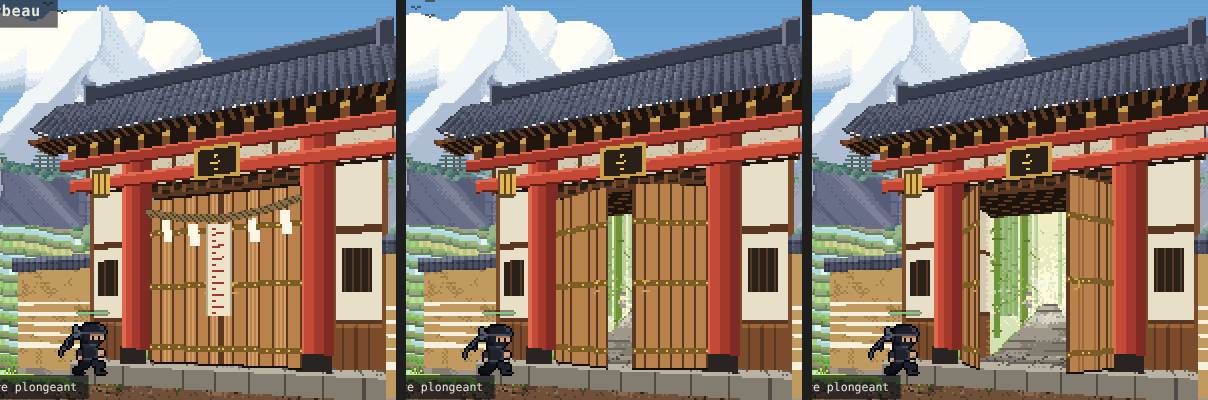
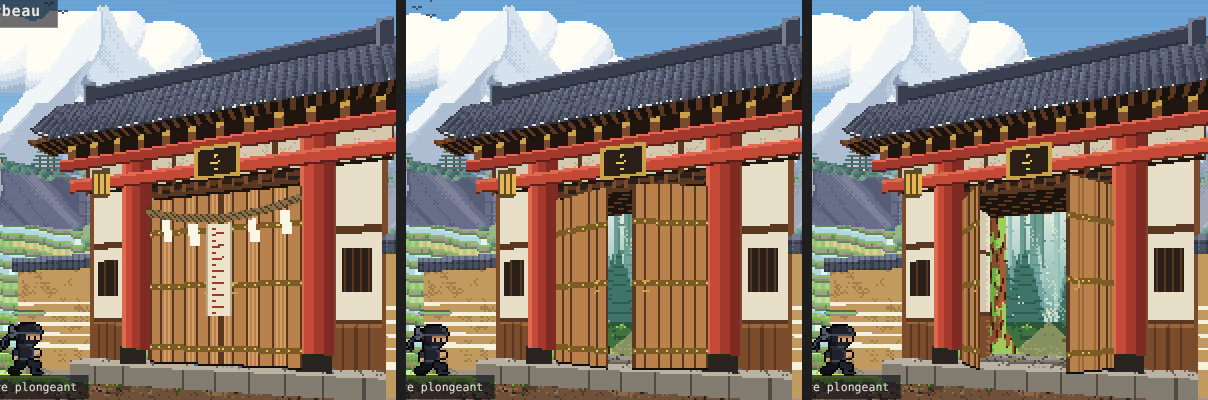
Porte du temple : on aperçoit la forêt dense et mystérieuse du chapitre 2
Nouvel intérieur « foret » (devenu celui par défaut), d'après l'image de
référence de l'utilisateur : brume bleu-vert, troncs droits à perte de vue,
sapins étagés, grands troncs moussus à l'écorce rousse, rais de lumière,
fougères, sentier et une lueur au fond. Le chapitre 2 sera une forêt
(MONDE.md : l'organisation des chapitres est à refaire avec l'utilisateur).
Carte mentale et REPRISE à jour.

Claude-Session: https://claude.ai/code/session_01A2iwx5pvEypuY4LKpvnPNM

diff --git a/docs/carte-mentale/index.html b/docs/carte-mentale/index.html
@@ -327,7 +327,7 @@ const BRANCHES = [
     files: ['docs/MONDE.md'], links: [['Carte du monde', 'docs/monde/carte_du_monde.png']] },
   { id: 'monde-ch1', t: '1 · Le Potager', s: 'fait', d: 'Jouable et entièrement peint',
     txt: "Jour, champs, paille, montagnes au loin. 9 zones, 9 lanternes, le marchand, puis le mini-boss KARASU-KASHI et la porte du temple. Voir la branche « Chapitre 1 ».", files: ['src/game/chapters/potager.js'], see: ['pot-z01'] },
-  { id: 'monde-ch2', t: '2 · Le champ des bambous', s: 'afaire', d: 'Rizières, bambous, eau', txt: "Ennemi à concevoir. Marchand au bord des rizières.", files: ['docs/MONDE.md'] },
+  { id: 'monde-ch2', t: '2 · La forêt dense et mystérieuse', s: 'afaire', d: 'Brume, grands troncs moussus, sapins', txt: "Novembre 2026 : Raph refait l'organisation des chapitres ; le chapitre 2 sera une forêt dense et mystérieuse (image de référence : sapins étagés dans une brume bleu-vert, grands troncs moussus à l'écorce rousse, rais de lumière, sous-bois de fougères). On l'aperçoit déjà par la porte du temple, à la fin du Potager. Le reste du plan (chapitres 3 à 7) est à revoir avec lui.", files: ['docs/MONDE.md', 'src/game/potager/temple.js'], see: ['pot-porte'] },
   { id: 'monde-ch3', t: '3 · La forêt des grands arbres', s: 'afaire', d: 'Troncs immenses, brume', txt: "Ennemi pressenti : Kage-mane. Marchand dans une clairière.", see: ['ennemi-kagemane'] },
   { id: 'monde-ch4', t: '4 · Le village des basses montagnes', s: 'afaire', d: 'Toits, lanternes, marché', txt: "Ennemi pressenti : Chōchin. Marchand au marché.", see: ['ennemi-chochin'] },
   { id: 'monde-ch5', t: '5 · Les hautes montagnes', s: 'afaire', d: 'Vent, neige, glace, ascension', txt: "Ennemi pressenti : un corbeau messager. Marchand dans un refuge.", see: ['ennemi-messager'] },
@@ -374,11 +374,11 @@ const BRANCHES = [
   { id: 'pot-z09', t: '09 · Le champ du corbeau', s: 'fait', d: 'Le mini-boss, puis la porte du temple',
     txt: "Arène de 66 cases : lanterne à l'entrée, rangs de navets, choux, radis, carottes, poireaux, arbres fruitiers, treillis, deux tas de pierres (où le corbeau se sert), quatre plateformes de bois fragiles sur pilotis (deux hauteurs, échelles, pots), et l'épouvantail géant où trône KARASU-KASHI. Au bout, la grande porte du temple (voir sa boîte) reste fermée tant qu'il n'est pas vaincu ; le monde s'arrête derrière elle.",
     files: ['src/game/chapters/potager.js#L595', 'src/game/potager/props.js', 'src/game/potager/live.js'], links: [['Porte ouverte', 'docs/enemies/karasu_porte_ouverte.png']], see: ['ennemi-karasu', 'pot-porte'] },
-  { id: 'pot-porte', t: 'La porte du temple', s: 'encours', d: 'La fin du chapitre, au bout du monde',
-    txt: "Un pavillon de porte (rōmon) peint en vraie perspective (temple.js : chaque point est projeté par une petite caméra) : vu de trois quarts, sa façade tournée vers KAGE, piliers vermillon, enduit et fenêtres à barreaux, consoles dorées, grand toit de tuiles aux coins relevés, plaque du nom. Son panneau droit touche le bord du monde : rien ne se voit derrière. Fermée, une corde sacrée et un talisman la scellent ; à la défaite du corbeau, le talisman se déchire et les deux vantaux pivotent lentement vers KAGE (4,2 s, aux deux tiers : ils cachent encore une part du passage). KAGE ne passe pas devant les vantaux : arrivé au seuil, il entre dans le passage (la porte le dessine entre le couloir et la façade), rapetisse avec la profondeur et s'efface ; puis la fin du chapitre. Au fond d'un couloir sombre, une scène peinte : quatre propositions (bambous, escalier, mille torii, brume dorée), à choisir par Raph ; on les essaie avec ?porte=bambous|escalier|torii|brume.",
-    keys: ['Façade tournée de 28°, perspective à 260 px', 'Ouverture : 4,2 s, 62°, on passe aux 3/5', 'Intérieur par défaut : le sentier des bambous'],
+  { id: 'pot-porte', t: 'La porte du temple', s: 'fait', d: 'La fin du chapitre, au bout du monde',
+    txt: "Un pavillon de porte (rōmon) peint en vraie perspective (temple.js : chaque point est projeté par une petite caméra) : vu de trois quarts, sa façade tournée vers KAGE, piliers vermillon, enduit et fenêtres à barreaux, consoles dorées, grand toit de tuiles aux coins relevés, plaque du nom. Son panneau droit touche le bord du monde : rien ne se voit derrière. Fermée, une corde sacrée et un talisman la scellent ; à la défaite du corbeau, le talisman se déchire et les deux vantaux pivotent lentement vers KAGE (4,2 s, aux deux tiers : ils cachent encore une part du passage). KAGE ne passe pas devant les vantaux : arrivé au seuil, il entre dans le passage (la porte le dessine entre le couloir et la façade), rapetisse avec la profondeur et s'efface ; puis la fin du chapitre. Au fond d'un couloir sombre, une scène peinte : un coin de la forêt dense et mystérieuse du chapitre 2 (choix de Raph, d'après son image de référence : brume bleu-vert, troncs droits à perte de vue, sapins étagés, grands troncs moussus à l'écorce rousse, rais de lumière, fougères, sentier et une lueur au fond). Les autres scènes restent à l'essai avec ?porte=bambous|escalier|torii|brume.",
+    keys: ['Façade tournée de 28°, perspective à 260 px', 'Ouverture : 4,2 s, 62°, on passe aux 3/5', 'Intérieur : la forêt du chapitre 2'],
     files: ['src/game/potager/temple.js', 'src/game/potager/live.js', 'src/game/level.js', 'src/game/chapters/potager.js#L595'],
-    links: [['GIF : la porte s\'ouvre', 'docs/potager/porte_temple.gif'], ['GIF : KAGE entre', 'docs/potager/porte_entree.gif'], ['Fermée, s\'ouvre, ouverte', 'docs/potager/porte_temple.png'], ['Les quatre intérieurs', 'docs/potager/porte_interieurs.png']], see: ['pot-z09', 'ennemi-karasu'] },
+    links: [['GIF : la porte s\'ouvre', 'docs/potager/porte_temple.gif'], ['GIF : KAGE entre', 'docs/potager/porte_entree.gif'], ['Fermée, s\'ouvre, ouverte', 'docs/potager/porte_temple.png'], ['La forêt par la porte', 'docs/potager/porte_foret.png'], ['Les autres intérieurs essayés', 'docs/potager/porte_interieurs.png']], see: ['pot-z09', 'ennemi-karasu', 'monde-ch2'] },
   { id: 'pot-grue', t: 'La grue de bambou', s: 'fait', d: 'Énigme : dash, sauts muraux, shuriken',
     txt: "Au bout des canaux, un mur de blocs de pierre ficelés en croix pend à une grue de bambou et bouche le passage ; une fosse l'attend dessous. Le mât de la grue, juste après la fosse, est une tour de bambou au treillis serré : on ne passe pas par-dessus les blocs (l'ancien surplomb rocheux, qui semblait flotter, a disparu) ; en bas, on passe entre ses montants. On se glisse au dash sous un premier mur de bambous, on monte en sauts muraux jusqu'à la plateforme de la grue, et un shuriken coupe la corde : les blocs tombent et comblent la fosse à ras du sol. Depuis le sol, la corde est hors de portée. Grue coupée sauvegardée (cranes).",
     files: ['src/game/chapters/potager.js', 'src/game/level.js', 'src/game/potager/live.js', 'src/game/potager/props.js'], links: [['GIF : la grue', 'docs/potager/grue_bambou.gif'], ['Le mât en tour', 'docs/potager/grue_mat.png']], see: ['pot-z03', 'kage-shuriken'] },
@@ -519,7 +519,7 @@ const BRANCHES = [
     txt: "KAGE entre vraiment dans la porte du temple ; le dojo final du lointain agrandi et bien plus majestueux ; la grue sans le rocher qui flottait (son mât devient une tour infranchissable) ; le bas des feuillages des passages à glissade remonté (KAGE agrandi de 20 %) ; les échelles posées d'une plateforme à l'autre ; des ryō sur le toit de la serre.",
     files: ['docs/REPRISE.md'], links: [['GIF : KAGE entre', 'docs/potager/porte_entree.gif'], ['Le dojo', 'docs/potager/dojo_final.png'], ['Glissade', 'docs/potager/glissade_feuillage.png']], see: ['pot-porte', 'monde-ch7', 'pot-grue', 'pot-pilotis', 'pot-z05'] },
   { id: 'proj-suite', t: 'Prochaine étape', s: 'afaire', d: 'La planche du marchand',
-    txt: "Le chapitre 1 est terminé (novembre 2026). Conseillé : choisir l'intérieur de la porte du temple, régler le nouveau combat contre KARASU-KASHI en jouant, la planche de design du marchand (le sage voyageur), celle du petit nuisible, les skins suivants (8 restants sur la planche de Raph), puis les sons d'ambiance, l'expérience, et le chapitre 2.",
+    txt: "Le chapitre 1 est terminé (novembre 2026). Conseillé : la nouvelle organisation des chapitres (Raph la refait : le chapitre 2 sera une forêt dense et mystérieuse), régler le nouveau combat contre KARASU-KASHI en jouant, la planche de design du marchand (le sage voyageur), celle du petit nuisible, les skins suivants (8 restants sur la planche de Raph), puis les sons d'ambiance, l'expérience, et le chapitre 2.",
     files: ['docs/REPRISE.md', 'docs/MONDE.md'], see: ['hab-marchand', 'ennemi-nuisible', 'monde-ch2'] },
   { id: 'proj-questions', t: 'Questions ouvertes', s: 'idee', d: 'À trancher par Raph',
     txt: "Trois questions du plan du monde attendent une réponse.", keys: ['Durée visée : 20 min par chapitre, environ 2 h 30 au total ?', 'Garder les talismans comme fil rouge ?', 'Quels attributs et combien de paliers d\'expérience ?'],

diff --git a/src/game/potager/temple.js b/src/game/potager/temple.js
@@ -33,12 +33,13 @@ const LEAF = { w: 36, v0: SILL, v1: 90 };
 const OPEN_ANGLE = 62;               // degrés : les vantaux ne s'ouvrent pas en grand
 
 export const INTERIORS = {
-  bambous: 'Le sentier des bambous (un avant-goût du chapitre 2)',
+  foret: 'La forêt dense et mystérieuse (le chapitre 2)',
+  bambous: 'Le sentier des bambous',
   escalier: "L'escalier de pierre, entre deux lanternes",
   torii: 'Les mille torii, jusqu\'à la lumière',
   brume: 'Le voile de brume dorée',
 };
-export const DEFAULT_INTERIOR = 'bambous';
+export const DEFAULT_INTERIOR = 'foret';   // choisi par l'utilisateur : le chapitre 2 sera une forêt
 
 // ---------------------------------------------------------------------------
 // l'intérieur : un tableau de 72 × 92 px (vu au fond du passage)
@@ -102,6 +103,82 @@ function paintInterior(kind) {
     for (let y = 40; y < 80; y++) for (let x = 0; x < PW; x++) {
       const m = fbm2(x * 0.06, y * 0.18, 3, 21);
       if (m > 0.58 && ih(x, y, 13) < (m - 0.58) * 4) b.p(x, y, 'rgba(250, 250, 236, 0.55)');
+    }
+  } else if (kind === 'foret') {
+    // la forêt du chapitre 2 : brume bleu-vert, conifères étagés, grands troncs
+    // moussus à l'écorce rousse, rais de lumière, sous-bois de fougères, sentier
+    for (let y = 0; y < PH; y++) b.r(0, y, PW, 1, y < 50 ? mixHex('#d6e6df', '#8fbcb4', y / 50) : mixHex('#8fbcb4', '#3f6f63', (y - 50) / 42));
+    // des troncs droits à perte de vue, noyés dans la brume (deux profondeurs)
+    for (const [n, col, edge, w0, seed] of [[16, '#a3c8c0', '#93bcb3', 2, 51], [10, '#6c9d93', '#5a8a80', 3, 52]]) {
+      for (let i = 0; i < n; i++) {
+        const x = Math.floor(ih(i, seed, 53) * PW), w = w0 + Math.floor(ih(i, seed, 54) * 2);
+        if (Math.abs(x - 36) < 3) continue;
+        b.r(x, 0, w, 74, col).r(x + w - 1, 0, 1, 74, edge);
+        for (let y = 6 + (i % 5) * 4; y < 70; y += 17) b.r(x - 2, y, 2, 1, edge).r(x + w, y + 3, 2, 1, edge);   // branches mortes
+      }
+    }
+    // trois rangs de sapins, de plus en plus sombres et nets vers l'avant
+    const firs = [
+      { n: 16, col: '#a9cdc6', dark: '#98c1b9', base: 62, h: [26, 44], w: 5 },
+      { n: 12, col: '#6fa39b', dark: '#5f9189', base: 70, h: [34, 54], w: 7 },
+      { n: 8, col: '#3f7468', dark: '#2f5d52', base: 78, h: [40, 62], w: 9 },
+    ];
+    firs.forEach((f, k) => {
+      for (let i = 0; i < f.n; i++) {
+        const cx = Math.floor(ih(i, k, 31) * (PW + 10)) - 5, h = f.h[0] + Math.floor(ih(i, k, 32) * (f.h[1] - f.h[0]));
+        if (Math.abs(cx - 36) < 6 + k * 2) continue;                         // le sentier reste dégagé
+        b.r(cx, f.base - h, 1, h, f.dark);                                     // le tronc
+        for (let j = 0; j < h - 4; j++) {                                      // le feuillage en étages
+          const half = Math.round((j / h) * f.w * (0.75 + ((j % 6) / 6) * 0.35));
+          b.r(cx - half, f.base - h + j, 2 * half + 1, 1, j % 6 === 5 ? f.dark : f.col);
+        }
+      }
+      for (let x = 0; x < PW; x++) {                                         // la brume entre deux rangs
+        const m = fbm2(x * 0.08, k * 3.1, 3, 41);
+        for (let y = f.base - 6; y < f.base + 2; y++) if (ih(x, y, 42 + k) < m * 0.7) b.p(x, y, k < 2 ? '#c7ddd6' : '#9cc3b9');
+      }
+    });
+    // les rais de lumière, en biais depuis le haut
+    for (let k = 0; k < 3; k++) {
+      const x0 = 20 + k * 14;
+      for (let y = 0; y < 70; y++) for (let w = 0; w < 4; w++) if (((x0 + w + y * 0.35) | 0) % 2 === 0 && ih(w, y, 43 + k) < 0.45) b.p(Math.round(x0 + w + y * 0.35), y, 'rgba(250, 248, 210, 0.45)');
+    }
+    // le sous-bois : mousse, fougères, rochers, le sentier qui s'enfonce
+    for (let y = 70; y < PH; y++) {
+      const t = (y - 70) / (PH - 70), half = 2 + t * 22;
+      for (let x = 0; x < PW; x++) {
+        const path = Math.abs(x - 36) < half;
+        const v = path ? 0.45 + t * 0.15 + (ih(x >> 1, y, 44) - 0.5) * 0.2 : 0.25 + t * 0.2 + (fbm2(x * 0.2, y * 0.3, 2, 45) - 0.5) * 0.4;
+        b.p(x, y, path ? pick(['#5a6b4a', '#6f7d55', '#86915f', '#9aa36b'], v, x, y) : pick(['#1f3d2c', '#2c5638', '#3e7340', '#58913f', '#7cb04a'], v, x, y));
+      }
+    }
+    for (let k = 0; k < 14; k++) {                                           // fougères en éventail
+      const fx = Math.floor(ih(k, 1, 46) * PW), fy = 74 + Math.floor(ih(k, 2, 46) * 16);
+      if (Math.abs(fx - 36) < 4 + (fy - 70) * 0.9) continue;
+      for (let a = 0; a < 5; a++) {
+        const ang = -Math.PI / 2 + (a - 2) * 0.45;
+        for (let j = 0; j < 5; j++) b.p(Math.round(fx + Math.cos(ang) * j), Math.round(fy + Math.sin(ang) * j + j * j * 0.08), j > 3 ? '#9ccc5a' : '#5f9a3a');
+      }
+    }
+    for (const [rx, ry] of [[10, 86], [58, 83], [47, 76]]) b.r(rx, ry, 4, 2, '#7b8a92').r(rx + 1, ry - 1, 2, 1, '#a5b3b8').r(rx, ry + 2, 4, 1, '#3f4a4f');
+    b.r(44, 79, 13, 3, '#6b4a30').r(44, 79, 13, 1, '#8c6440').r(55, 79, 2, 3, '#c8a070').p(56, 80, '#8c6440');   // un tronc couché
+    for (let x = 44; x < 57; x += 3) b.p(x, 78, '#6fae45');
+    // une lueur, tout au fond du sentier : quelque chose vous y attend
+    b.p(36, 63, '#fff6c8').p(35, 63, 'rgba(255, 240, 180, 0.6)').p(37, 63, 'rgba(255, 240, 180, 0.6)').p(36, 62, 'rgba(255, 240, 180, 0.6)');
+    // les deux grands troncs du premier plan, moussus, à l'écorce rousse
+    for (const [tx, tw, side] of [[-2, 13, 1], [61, 13, -1]]) {
+      for (let y = 0; y < PH; y++) {
+        const flare = y > 74 ? Math.round((y - 74) * 0.5) : 0;                 // le pied s'évase en racines
+        for (let i = -flare * (side < 0 ? 1 : 0); i < tw + flare * (side > 0 ? 1 : 0); i++) {
+          const x = tx + i, u = (i + flare) / (tw + flare);
+          if (x < 0 || x >= PW) continue;
+          const groove = (x * 3 + Math.floor(y / 5)) % 5 === 0;
+          const moss = fbm2(x * 0.25, y * 0.08, 3, 47 + side) > 0.56 - (side > 0 ? u : 1 - u) * 0.15;
+          const lit = side > 0 ? u : 1 - u;
+          b.p(x, y, moss ? pick(['#2f5a26', '#4a8030', '#6fae45', '#9ccc5a'], 0.3 + lit * 0.6, x, y)
+            : groove ? '#3a1f14' : pick(['#4a2618', '#6b3a24', '#8a4a2c', '#a65d34'], 0.2 + lit * 0.7, x, y));
+        }
+      }
     }
   } else if (kind === 'escalier') {
     // un escalier de pierre moussue qui monte vers une lumière chaude ; un torii

diff --git a/docs/REPRISE.md b/docs/REPRISE.md
@@ -235,6 +235,10 @@ L'utilisateur a trouvé le portail « magnifique » et demandé six retouches de
 5. **Échelles** : elles partent du bout de la plateforme du dessous et s'accrochent au début de celle du dessus (`Builder.ladder(bx, tx, rangée, hauteur)`, échelle penchée dessinée par `ladder` avec `bx`/`tx`) : jardin sur pilotis, plateformes de cueillette, pépinière. Image : `docs/potager/echelles_pepiniere.png`.
 6. **Toit de la serre** : 7 ryō sur le faîtage (on y monte depuis le bout de la poutre de charpente), pour pousser à s'aventurer tout en haut.
 
+### L'intérieur de la porte : la forêt du chapitre 2
+
+L'utilisateur refait l'organisation des chapitres : **le chapitre 2 sera une forêt dense et mystérieuse** (`docs/MONDE.md`, § 3). Il a donc demandé qu'on aperçoive cet univers par la porte du temple, d'après une image de référence (bandes de forêt en pixel art : sapins étagés dans une brume bleu-vert, troncs droits à perte de vue, grands troncs moussus à l'écorce rousse, rais de lumière, sous-bois de fougères et de rochers). Nouvel intérieur `foret` (`paintInterior` dans `temple.js`), devenu `DEFAULT_INTERIOR` : deux grands troncs moussus en cadre, deux rangs de troncs dans la brume, trois rangs de sapins, bancs de brume, rais de lumière, sous-bois de fougères, rochers et un tronc couché, un sentier qui s'enfonce et une petite lueur tout au fond. Les quatre autres scènes restent essayables avec `?porte=`. Image : `docs/potager/porte_foret.png`.
+
 ## 6 ter. Historique des grandes étapes (toutes fusionnées dans `main`)
 
 1. **PR #1** : KAGE (forge des sprites, 18 animations d'origine), TATE, niveau 1, terrain d'essai, tactile.
@@ -284,7 +288,7 @@ L'utilisateur a trouvé le portail « magnifique » et demandé six retouches de
 ## 9. Ce qui reste à faire (pistes discutées)
 
 - **En attente de l'avis de l'utilisateur** :
-  - **L'intérieur de la porte du temple** (§ 6 sexies, n° 5) : choisir parmi les quatre propositions (planche `docs/potager/porte_interieurs.png`), puis changer `DEFAULT_INTERIOR` dans `src/game/potager/temple.js` (et, si l'utilisateur le souhaite, retirer les autres).
+  - **La nouvelle organisation des chapitres** : l'utilisateur la refait entièrement ; seul le chapitre 2 est connu (une forêt dense et mystérieuse, déjà visible par la porte du temple). Mettre `docs/MONDE.md` à jour quand il la donnera.
   - **Le nouveau combat contre KARASU-KASHI** (§ 6 quinquies, n° 6) : à jouer et régler (`KARASU` dans `src/game/karasu.js` : 24 PV, pierres par sortie, attente avant le lâcher, durée planté, vitesse du plongeon).
   - **Les énigmes et bosquets** (grue, serre, bosquets) : vérifier en jouant qu'ils sont lisibles et pas trop durs.
   - **Skins** (lancés en novembre 2026, d'après une planche de skins fournie par l'utilisateur, 9 entourés et numérotés) : n° 1, **le vagabond**, **intégré** : sugegasa de paille, tenue bleu nuit, pièces vert mousse aux avant-bras et à la ceinture, cordelette dorée. Vendu **50 ryō** au rayon Apparences du marchand (d'abord 100, baissé à la demande de l'utilisateur). Dans la version de test, tous les skins se portent sans achat. **Suivants** : n° 2 à 9 de sa planche (une planche de design pour chacun avant intégration).

diff --git a/docs/MONDE.md b/docs/MONDE.md
@@ -21,6 +21,8 @@ Proposition : les **talismans** déjà présents (sur TATE, sur WARA) deviennent
 
 ## 3. Les sept chapitres
 
+> **Novembre 2026 : l'utilisateur va refaire entièrement l'organisation des chapitres et les chapitres eux-mêmes.** Seule décision connue : **le chapitre 2 sera une forêt dense et mystérieuse** (image de référence : sapins étagés dans une brume bleu-vert, grands troncs moussus à l'écorce rousse, rais de lumière, sous-bois de fougères ; on l'aperçoit déjà par la porte du temple, à la fin du Potager). Le tableau ci-dessous est l'ancien plan, à revoir avec lui.
+
 | # | Chapitre | Ambiance | Ennemis (pistes) | Cabane du marchand |
 |---|---|---|---|---|
 | 1 | **Le potager** | jour, champs, paille, montagnes au loin | WARA, TATE, le petit nuisible voleur de légumes | le comptoir du voyageur, à la sortie |
